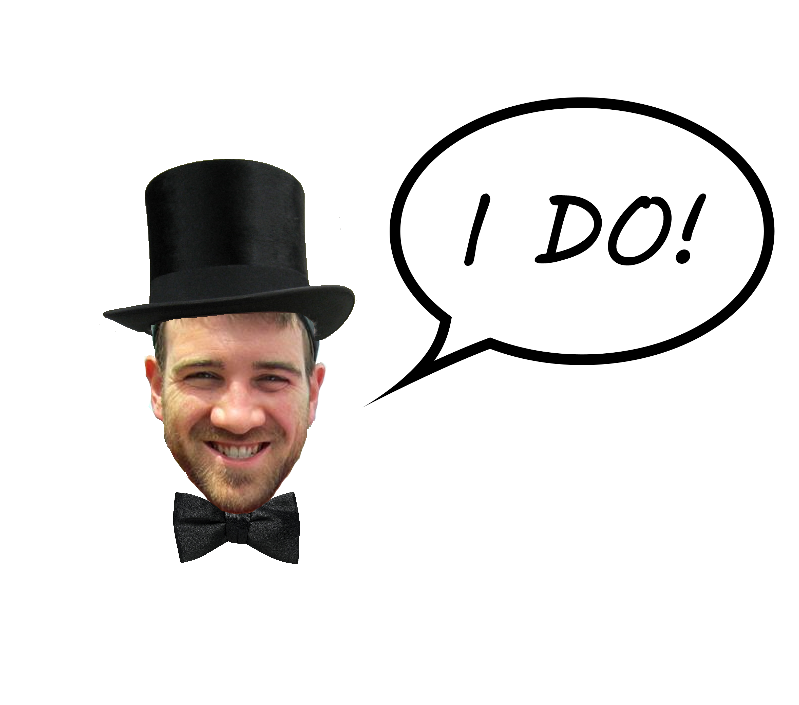
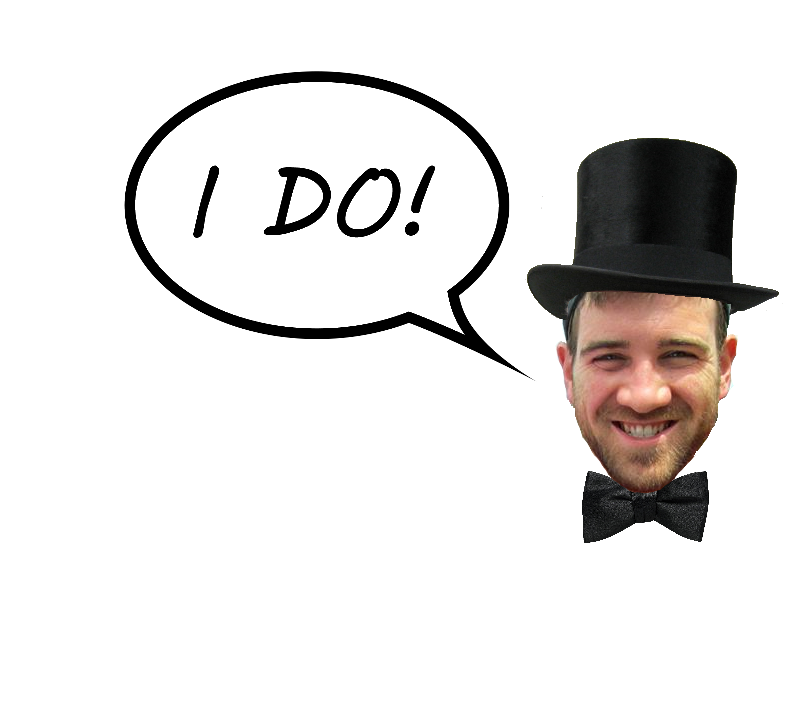
updated danielle's head and the fancies

Changed region(s): [[0.1202, 0.0936, 0.9912, 0.8113]]

diff --git a/hobchick/hobchick/static/css/how.css b/hobchick/hobchick/static/css/how.css
@@ -68,6 +68,10 @@ body {
     cursor: pointer;
 }
 
+.kevin-head {
+    margin-top: -50px;
+}
+
 .person-wrapper {
     margin-left: auto;
     margin-right: auto;
